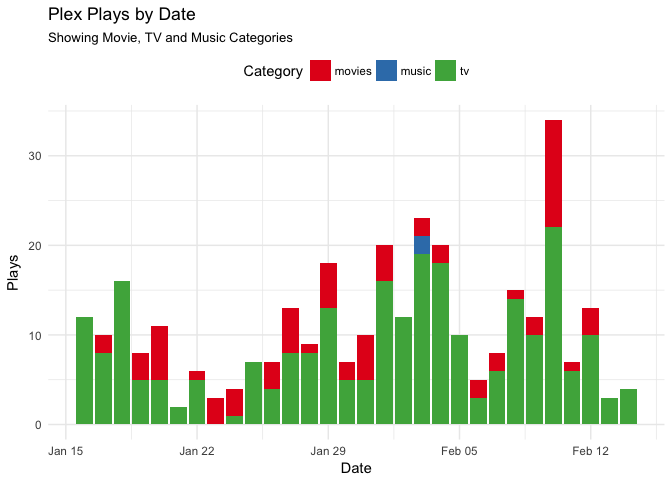
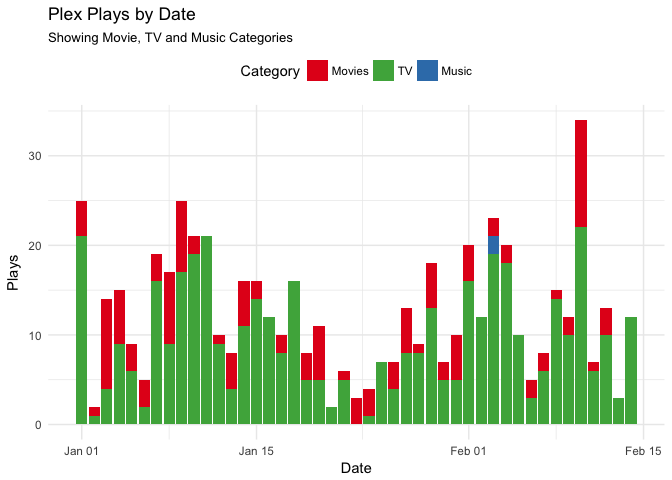
Tweak README plot

diff --git a/README.md b/README.md
@@ -52,13 +52,15 @@ info[c("name", "version")]
 --------------
 
 ``` r
-plays <- get_plays_by_date()
+plays <- get_plays_by_date(time_range = lubridate::yday(lubridate::now()))
 
 plays %>% 
   gather(category, playcount, tv, movies, music) %>%
   ggplot(data = ., aes(x = date, y = playcount, fill = category)) +
   geom_col() +
-  scale_fill_brewer(palette = "Set1") +
+  scale_fill_brewer(palette = "Set1", 
+                    labels = c("Movies", "TV", "Music"),
+                    breaks = c("movies", "tv", "music")) +
   labs(title = "Plex Plays by Date",
        subtitle = "Showing Movie, TV and Music Categories",
        x = "Date", y = "Plays", fill = "Category") +
